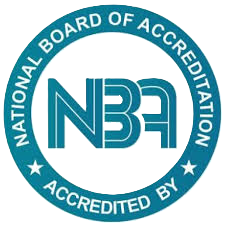
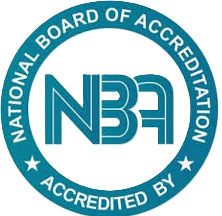
Add recruiters carousel, section, and loading UI
Introduce a reusable RecruitersCarousel component and a RecruitersSection for the homepage (client-side). Replace the inline recruiter marquee in PlacementStats with the new carousel. Add a global loading overlay (app/loading.tsx). Update app/page.tsx to lazy-load and include the RecruitersSection. Adjust NAAC/NBA logo heights/classes in Header and the engineering college page for consistent sizing. Enable optimizePackageImports for react-icons in next.config.ts. Also update NAAC/NBA image assets.

diff --git a/app/components/college/PlacementStats.tsx b/app/components/college/PlacementStats.tsx
@@ -76,39 +76,7 @@ function getStatSuffix(stat: string): string {
     return stat.replace(/[\d.]+/, '');
 }
 
-// Recruiter Logo component with error handling
-const RecruiterLogo = ({ recruiter }: { recruiter: { name: string; logo?: string; icon?: React.ReactNode } }) => {
-    const [imgError, setImgError] = useState(false);
-
-    if (recruiter.icon) {
-        return (
-            <div className="text-white/80 hover:text-white transition-colors">
-                {recruiter.icon}
-            </div>
-        );
-    }
-
-    if (recruiter.logo && !imgError) {
-        return (
-            <div className="relative w-full h-full p-3">
-                <Image
-                    src={recruiter.logo}
-                    alt={recruiter.name}
-                    fill
-                    className="object-contain opacity-70 group-hover:opacity-100 transition-opacity"
-                    sizes="(max-width: 768px) 128px, 160px"
-                    onError={() => setImgError(true)}
-                />
-            </div>
-        );
-    }
-
-    return (
-        <span className="text-white/70 text-sm font-medium text-center px-3 group-hover:text-white transition-colors">
-            {recruiter.name}
-        </span>
-    );
-};
+import RecruitersCarousel from '../RecruitersCarousel';
 
 export default function PlacementStats({ stats, recruiters }: PlacementStatsProps) {
     const placementNum = parseStatNumber(stats.placementRate);
@@ -177,33 +145,7 @@ export default function PlacementStats({ stats, recruiters }: PlacementStatsProp
                 {/* Recruiters */}
                 <div className="text-center">
                     <h3 className="text-lg font-semibold text-gradient mb-8">Our Top Recruiters</h3>
-                    <div className="relative overflow-hidden">
-                        {/* Gradient Masks */}
-                        <div className="absolute left-0 top-0 bottom-0 w-20 bg-gradient-to-r from-primary-dark to-transparent z-10" />
-                        <div className="absolute right-0 top-0 bottom-0 w-20 bg-gradient-to-l from-primary-dark to-transparent z-10" />
-
-                        {/* Recruiter Logos - Infinite Marquee */}
-                        <div className="flex animate-marquee hover:pause-animation">
-                            {/* First set */}
-                            {recruiters.map((recruiter, index) => (
-                                <div
-                                    key={`first-${recruiter.name}-${index}`}
-                                    className="group flex-shrink-0 w-32 md:w-40 h-16 md:h-20 rounded-xl bg-white/5 border border-white/10 flex items-center justify-center hover:bg-white/10 hover:border-white/20 transition-all duration-300 mx-3"
-                                >
-                                    <RecruiterLogo recruiter={recruiter} />
-                                </div>
-                            ))}
-                            {/* Duplicate set for seamless loop */}
-                            {recruiters.map((recruiter, index) => (
-                                <div
-                                    key={`second-${recruiter.name}-${index}`}
-                                    className="group flex-shrink-0 w-32 md:w-40 h-16 md:h-20 rounded-xl bg-white/5 border border-white/10 flex items-center justify-center hover:bg-white/10 hover:border-white/20 transition-all duration-300 mx-3"
-                                >
-                                    <RecruiterLogo recruiter={recruiter} />
-                                </div>
-                            ))}
-                        </div>
-                    </div>
+                    <RecruitersCarousel recruiters={recruiters} />
                 </div>
             </div>
         </section>

diff --git a/app/components/RecruitersCarousel.tsx b/app/components/RecruitersCarousel.tsx
@@ -1,0 +1,80 @@
+'use client';
+
+import React, { useState } from 'react';
+import Image from 'next/image';
+
+interface Recruiter {
+    name: string;
+    logo?: string;
+    icon?: React.ReactNode;
+}
+
+interface RecruitersCarouselProps {
+    recruiters: Recruiter[];
+}
+
+// Recruiter Logo component with error handling
+const RecruiterLogo = ({ recruiter }: { recruiter: Recruiter }) => {
+    const [imgError, setImgError] = useState(false);
+
+    if (recruiter.icon) {
+        return (
+            <div className="text-white/80 hover:text-white transition-colors">
+                {recruiter.icon}
+            </div>
+        );
+    }
+
+    if (recruiter.logo && !imgError) {
+        return (
+            <div className="relative w-full h-full p-3">
+                <Image
+                    src={recruiter.logo}
+                    alt={recruiter.name}
+                    fill
+                    className="object-contain opacity-70 group-hover:opacity-100 transition-opacity"
+                    sizes="(max-width: 768px) 128px, 160px"
+                    onError={() => setImgError(true)}
+                />
+            </div>
+        );
+    }
+
+    return (
+        <span className="text-white/70 text-sm font-medium text-center px-3 group-hover:text-white transition-colors">
+            {recruiter.name}
+        </span>
+    );
+};
+
+export default function RecruitersCarousel({ recruiters }: RecruitersCarouselProps) {
+    return (
+        <div className="relative overflow-hidden">
+            {/* Gradient Masks */}
+            <div className="absolute left-0 top-0 bottom-0 w-20 bg-gradient-to-r from-primary-dark to-transparent z-10" />
+            <div className="absolute right-0 top-0 bottom-0 w-20 bg-gradient-to-l from-primary-dark to-transparent z-10" />
+
+            {/* Recruiter Logos - Infinite Marquee */}
+            <div className="flex animate-marquee hover:pause-animation">
+                {/* First set */}
+                {recruiters.map((recruiter, index) => (
+                    <div
+                        key={`first-${recruiter.name}-${index}`}
+                        className="group flex-shrink-0 w-32 md:w-40 h-16 md:h-20 rounded-xl bg-white/5 border border-white/10 flex items-center justify-center hover:bg-white/10 hover:border-white/20 transition-all duration-300 mx-3"
+                    >
+                        <RecruiterLogo recruiter={recruiter} />
+                    </div>
+                ))}
+                {/* Duplicate set for seamless loop */}
+                {recruiters.map((recruiter, index) => (
+                    <div
+                        key={`second-${recruiter.name}-${index}`}
+                        className="group flex-shrink-0 w-32 md:w-40 h-16 md:h-20 rounded-xl bg-white/5 border border-white/10 flex items-center justify-center hover:bg-white/10 hover:border-white/20 transition-all duration-300 mx-3"
+                    >
+                        <RecruiterLogo recruiter={recruiter} />
+                    </div>
+                ))}
+            </div>
+        </div>
+    );
+}

diff --git a/app/components/Header.tsx b/app/components/Header.tsx
@@ -172,7 +172,7 @@ export default function Header() {
                                         alt="NAAC A Grade"
                                         width={120}
                                         height={40}
-                                        className="h-10 w-auto object-contain"
+                                        className="h-14 w-auto object-contain"
                                     />
                                 </div>
                                 <div className="flex items-center gap-2">
@@ -181,7 +181,7 @@ export default function Header() {
                                         alt="NBA Accredited"
                                         width={120}
                                         height={40}
-                                        className="h-10 w-auto object-contain"
+                                        className="h-14 w-auto object-contain"
                                     />
                                 </div>
                                 <Link href="https://admissions.jct.ac.in/" className="btn btn-primary">
@@ -254,7 +254,7 @@ export default function Header() {
                                             alt="NAAC A Grade"
                                             width={120}
                                             height={40}
-                                            className="h-10 w-auto object-contain"
+                                            className="h-14 w-auto object-contain"
                                         />
                                     </div>
                                     <div className="flex items-center gap-2">
@@ -263,7 +263,7 @@ export default function Header() {
                                             alt="NBA Accredited"
                                             width={120}
                                             height={40}
-                                            className="h-10 w-auto object-contain"
+                                            className="h-14 w-auto object-contain"
                                         />
                                     </div>
 

diff --git a/app/sections/RecruitersSection.tsx b/app/sections/RecruitersSection.tsx
@@ -1,0 +1,31 @@
+'use client';
+import RecruitersCarousel from '../components/RecruitersCarousel';
+import { SiTcs, SiInfosys, SiWipro, SiHcl, SiCisco, SiDell, SiHp, SiAccenture, SiSap } from 'react-icons/si';
+
+const recruiters = [
+    { name: 'TCS', icon: <SiTcs className="w-8 h-8 md:w-10 md:h-10" /> },
+    { name: 'Infosys', icon: <SiInfosys className="w-8 h-8 md:w-10 md:h-10" /> },
+    { name: 'Wipro', icon: <SiWipro className="w-8 h-8 md:w-10 md:h-10" /> },
+    { name: 'HCL', icon: <SiHcl className="w-8 h-8 md:w-10 md:h-10" /> },
+    { name: 'Cisco', icon: <SiCisco className="w-8 h-8 md:w-10 md:h-10" /> },
+    { name: 'Dell', icon: <SiDell className="w-8 h-8 md:w-10 md:h-10" /> },
+    { name: 'HP', icon: <SiHp className="w-8 h-8 md:w-10 md:h-10" /> },
+    { name: 'Accenture', icon: <SiAccenture className="w-8 h-8 md:w-10 md:h-10" /> },
+    { name: 'SAP', icon: <SiSap className="w-8 h-8 md:w-10 md:h-10" /> },
+];
+
+export default function RecruitersSection() {
+    return (
+        <section className="py-12 bg-primary overflow-hidden">
+            <div className="container mb-8">
+                <div className="text-center">
+                    <h2 className="text-2xl font-bold text-gradient mb-2">Our Top Recruiters</h2>
+                    <p className="text-gradient">Leading companies that hire our students</p>
+                </div>
+            </div>
+            <div className="w-full">
+                <RecruitersCarousel recruiters={recruiters} />
+            </div>
+        </section>
+    );
+}

diff --git a/app/page.tsx b/app/page.tsx
@@ -8,6 +8,7 @@ import AboutSection from './sections/AboutSection';
 // Lazy load heavy sections for better performance
 const WhyJoinSection = dynamic(() => import('./sections/WhyJoinSection'), { ssr: true });
 const MetricsSection = dynamic(() => import('./sections/MetricsSection'), { ssr: true });
+const RecruitersSection = dynamic(() => import('./sections/RecruitersSection'), { ssr: true });
 const VideoGallerySection = dynamic(() => import('./sections/VideoGallerySection'), { ssr: true });
 const VisitFutureSection = dynamic(() => import('./sections/VisitFutureSection'), { ssr: true });
 
@@ -34,8 +35,11 @@ export default function Home() {
         {/* 5. Key Metrics (Counters) */}
         <MetricsSection />
 
+        {/* 5.5. Recruiters Carousel */}
+
         {/* 6. Video Gallery */}
         <VideoGallerySection />
+        <RecruitersSection />
 
         {/* 7. Visit Your Future CTA */}
         <VisitFutureSection />

diff --git a/app/colleges/engineering/page.tsx b/app/colleges/engineering/page.tsx
@@ -182,8 +182,8 @@ export default function EngineeringCollegePage() {
                                         src="/naac.png"
                                         alt="NAAC A Grade"
                                         width={60}
-                                        height={20}
-                                        className="h-5 w-auto object-contain"
+                                        height={60} 
+                                        className="h-14 w-auto object-contain"
                                     />
                                 </div>
                                 <div className="flex items-center gap-2 bg-accent/10 rounded-full px-4 py-2">

diff --git a/app/loading.tsx b/app/loading.tsx
@@ -1,0 +1,13 @@
+export default function Loading() {
+    return (
+        <div className="fixed inset-0 bg-white/80 backdrop-blur-sm z-50 flex items-center justify-center">
+            <div className="flex flex-col items-center gap-4">
+                <div className="relative w-16 h-16">
+                    <div className="absolute inset-0 border-4 border-primary/20 rounded-full"></div>
+                    <div className="absolute inset-0 border-4 border-primary border-t-transparent rounded-full animate-spin"></div>
+                </div>
+                <p className="text-primary font-medium animate-pulse">Loading...</p>
+            </div>
+        </div>
+    );
+}

diff --git a/next.config.ts b/next.config.ts
@@ -36,7 +36,7 @@ const nextConfig: NextConfig = {
 
   // Experimental features for better performance
   experimental: {
-    optimizePackageImports: ['lucide-react'],
+    optimizePackageImports: ['lucide-react', 'react-icons'],
   },
 };
 
